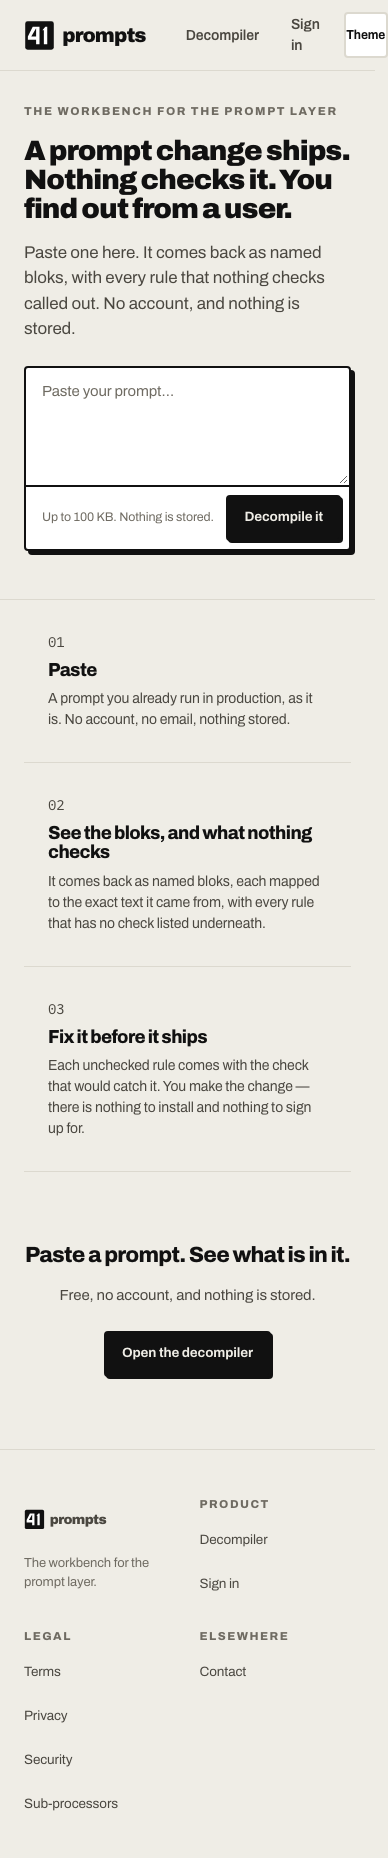
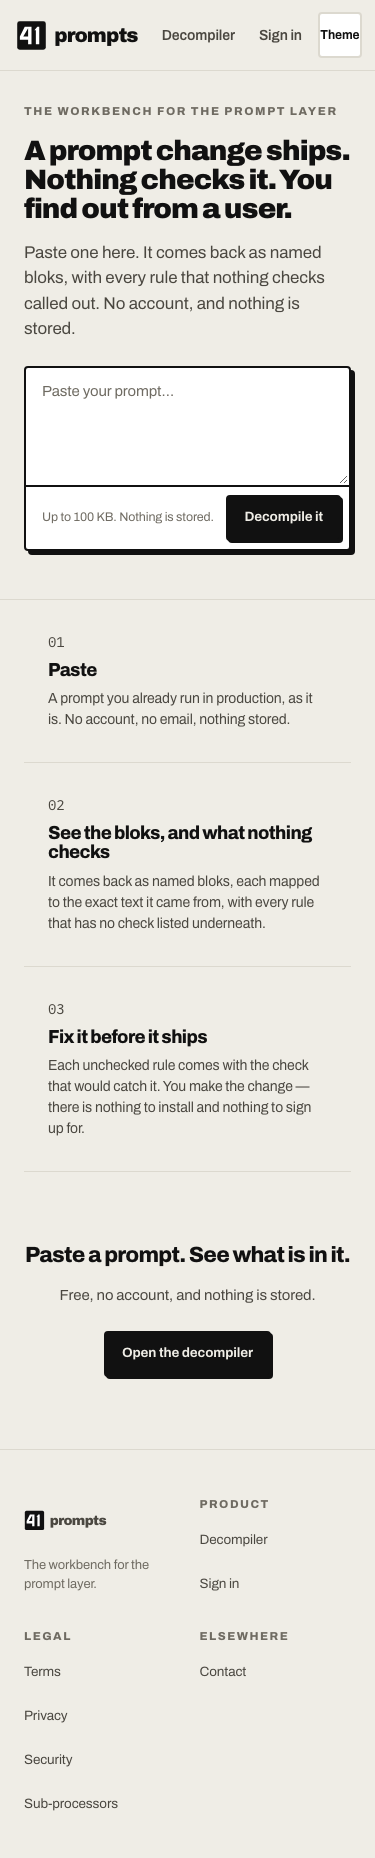
docs(epic-016): mark the epic done and recapture the phone screenshots
The 375x812 shots were taken before the nav fix and show "Sign in" wrapped onto
two lines. Recaptured against staging on 0f5c915: one nav row, no horizontal
scroll, the logo a 46px target.

diff --git a/docs/backlog.md b/docs/backlog.md
@@ -37,7 +37,7 @@ Stages ship in order. Nothing in a later stage starts until the stage before has
 | EPIC-013 | web: public `/decompile`; source map, bloks, bidirectional hover + keyboard pin, markers, dim, findings; touch default | M | 003, 012b | done |
 | EPIC-017 | Legal minimum: terms, privacy, cookie choice, sub-processor page, retention table, transfer note, DPA-on-request draft | S | 002 | todo |
 | EPIC-014 | Capture: permalink with `noindex` + removal endpoint, 30-day purge job, rate limits, Turnstile, abuse check before provider, waitlist capture | S | 013, 017 | done |
-| EPIC-016 | Landing page v1: nav, hero with ask bar and compile pass, three-step strip, decompiler CTA, footer, sign in / sign up | M | 003, 013 | current |
+| EPIC-016 | Landing page v1: nav, hero with ask bar and compile pass, three-step strip, decompiler CTA, footer, sign in / sign up | M | 003, 013 | done |
 | EPIC-015 | Soft ship: `llms.txt`, companion article, PostHog funnel, Search Console; no announcement | S | 014, 016 | todo |
 | EPIC-084 | research: read the live funnel and the blok-count distribution; size the canvas problem | S | 015 | todo |
 | ▣ GATE 1 | Stage 1 exit: criteria in roadmap | — | 084 | — |
